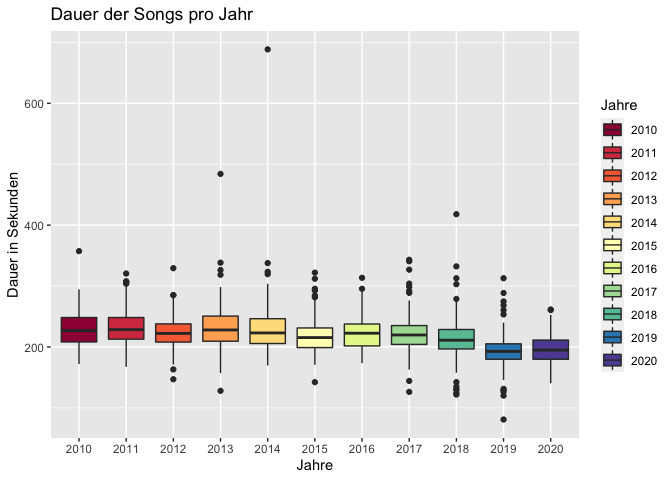
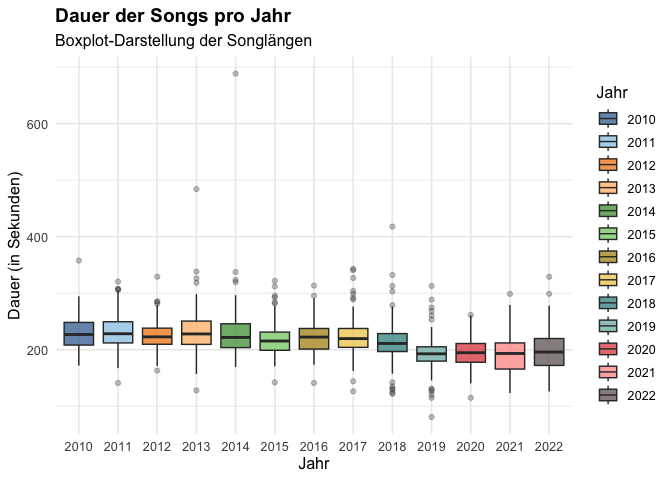
new read me due to closed Spotify API

diff --git a/README.md b/README.md
@@ -5,15 +5,11 @@ Nick Ruth
 
 ### Einführung in die Spotify-Datenalyse für Musik- und Medienstudierende
 
-In diesem Projekt sollen Studierende erste Erfahrungen mit der
-Beschaffung von Daten über die Enticklerschnittstelle von Spotify zu
-beziehen, diese wiederum analysieren üben und schließlich eine
-Vorstellung von einem stark vereinfachten Empfehlungsalgorithmus zu
-bekommen.
+In diesem Projekt sollen Studierende erste Erfahrungen mit der Beschaffung von Daten über die Entwicklerschnittstelle von Spotify und mittels Webscraping machen. Mit diesen Daten können Analysen geübt und ein stark vereinfachter Empfehlungsalgorithmus erstellt werden. Welche Software dazu benötigt wird, erkläre ich in diesem [YouTube-Video](https://www.youtube.com/watch?v=CmuLesPlekA).
 
 #### Erste Schritte
 
-Zunächste werden erste Übungen mit der freien Softwareumgebung und
+Zunächst werden erste Übungen mit der freien Softwareumgebung und
 Programmiersprache *R* gemacht.
 
 ``` r
@@ -43,19 +39,26 @@ durchgeführt werden.**
 
 ``` r
 library(ggplot2)
+library(ggthemes)
 spotify_data <- read.csv("./data/charts.csv")
 
-beispiel_dauer_pro_jahr <- ggplot(data = spotify_data,
-                                  aes(x = as.factor(year), 
-                                      y = duration_ms/1000))
+beispiel_dauerprojahr_plot <- ggplot(data = spotify_data,
+                                     aes(x = as.factor(year),
+                                         y = duration_ms/1000)) +
+  geom_boxplot(aes(fill = factor(year)), 
+               alpha = 0.8,           
+               outlier.alpha = 0.3) +  
+  scale_fill_tableau("Tableau 20",     
+                    name = "Jahr") +
+  labs(title = "Dauer der Songs pro Jahr",
+       subtitle = "Boxplot-Darstellung der Songlängen",
+       x = "Jahr",
+       y = "Dauer (in Sekunden)") +
+  theme_minimal(base_size = 12) +
+  theme(legend.position = "right",
+        plot.title = element_text(face = "bold"))
 
-beispiel_dauer_pro_jahr + 
-  geom_boxplot(aes(fill = factor(year))) +
-  ggtitle("Dauer der Songs pro Jahr") +
-  scale_fill_brewer(palette = "Spectral",
-                    name = "Jahre") +
-  xlab("Jahre") +
-  ylab("Dauer in Sekunden")
+beispiel_dauerprojahr_plot
 ```
 
 ![](README_files/figure-gfm/analyse-1.png)<!-- -->
@@ -100,6 +103,6 @@ Als Bonus für Fortgeschrittene gibt es noch ein Script, in dem die
 Datensammlung geschildert wird. Hier wird zunächst Webscraping mittels
 der **rvest** betrieben, um die Chartlisten zu beziehen. Anschließend
 wird das **SpotifyR** package genutzt, um mit der Spotify API zu
-kommunizieren. **Seit November 2024 ist die Spotify-API nicht mehr zugänglich! 
-Die Daten können daher leider nicht mehr aktualisiert werden, die Datensammlung 
-kann nicht mehr durchgeführt werden.**
+kommunizieren. **Die kostenfreie Nutzung der Spotify API wurde im November 2024 
+eingestellt. Die Daten können daher leider nicht mehr aktualisiert und die Datensammlung 
+nicht mehr durchgeführt werden.**
